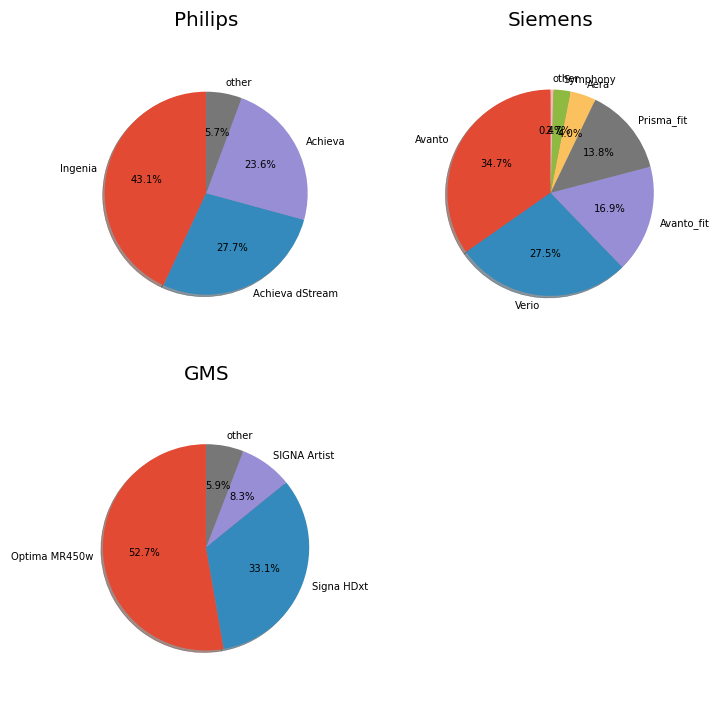
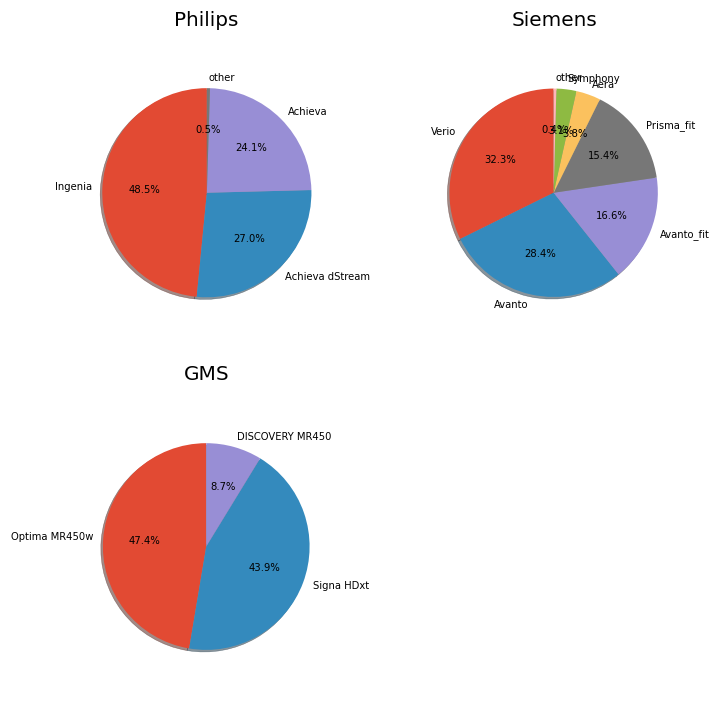
stats plots

diff --git a/Cobra/statistics_functions.py b/Cobra/statistics_functions.py
@@ -1,0 +1,324 @@
+#!/usr/bin/env python3
+# -*- coding: utf-8 -*-
+"""
+Created on Mon Sep 13 11:06:16 2021
+
+@author: neus
+"""
+
+import numpy as np
+import pandas as pd
+import itertools
+from stats_tools import vis as svis
+from vis import vis
+import matplotlib.pyplot as plt
+
+main_path = '/home/neus/Documents/09.UCPH/MasterThesis/github/Thesis/Cobra/'
+file_name = 'healthy_1'
+
+
+tab_dir = main_path+'tables/'
+fig_dir = main_path+'figs/basic_stats'
+
+# In[Define some helper functions]
+
+def p(x):
+    print(x)
+
+def only_first_true(a, b):
+    """takes two binary arrays
+    and returns True
+    where only the el. of the first array is true
+    if only the second or both are true returns false"""
+    return a&np.logical_not(a&b)
+
+def mask_sequence_type(df, str_, key='SeriesDescription'):
+    """Checks all the values in df
+    in the column key (SeriesDescription by default),
+    if they contain the string str_. Returns a mask."""
+    mask = df[key].str.contains(str_, na=False)
+    return mask
+
+def check_tags(df, tags, key='SeriesDescription'):
+    """calls mask_sequence type for a list of tags and combines
+    the masks with or"""
+    masks = []
+    for tag in tags:
+        masks.append(mask_sequence_type(df, tag, key))
+    mask = masks[0]
+    for i in range(1, len(masks)):
+        mask = mask | masks[i]
+    return mask
+
+def group_small(dict_, threshold, keyword='other'):
+    """Takes a dictionary and sums all values that are smaller than threshold
+    the result is stored under the key keyword. Useful for pie charts."""
+    newdic={}
+    for key, group in itertools.groupby(dict_, lambda k: keyword \
+                                        if (dict_[k]<threshold) else k):
+         newdic[key] = sum([dict_[k] for k in list(group)]) 
+    return newdic
+
+def get_property(prop,column_names,data):
+    '''
+    
+    Parameters
+    ----------
+    prop : str
+        DESCRIPTION.
+    column_names : np array
+        keys of the data.
+    data : np array
+        whole array of data.
+
+    Returns
+    -------
+    np array
+        np array for the given property.
+
+    '''
+    index = np.where(column_names==prop)[0]
+    return data[:,index]
+
+def read_table(file_name,encoding= 'unicode_escape'):
+    '''
+    Parameters
+    ----------
+    file_name : str
+        table file csv name.
+    encoding : str, optional
+        encoding . The default is 'unicode_escape'.
+
+    Returns
+    -------
+    array for column names, np array for data, sorted by acquisition time.
+
+    '''
+    df = pd.read_csv(file_name,encoding=encoding)
+    
+    
+    #In[Convert time and date to datetime for efficient access]
+    time_k = 'InstanceCreationTime'
+    date_k = 'InstanceCreationDate'
+    df['DateTime'] = df[date_k] + ' ' +  df[time_k]
+    #date_time_m = df['DateTime'].isnull()
+    df['DateTime'] = pd.to_datetime(df['DateTime'], format='%Y%m%d %H:%M:%S')
+
+    #In[Sort the the scans by time]
+    df_sorted = df.groupby('PatientID').apply(
+        lambda x: (x.sort_values(by=['DateTime'], ascending=True)))
+        
+    return df_sorted.keys(), df_sorted.to_numpy()
+
+def count_studies_per_patient(column_names,data):
+    df = pd.DataFrame(data=data,columns=column_names)
+    
+    df = pd.DataFrame(data=data,columns=column_names)
+    unique_studies = df.drop_duplicates(subset='StudyInstanceUID')
+    studies_per_patient = unique_studies.groupby('PatientID').size()
+        
+    return studies_per_patient
+
+def plot_n_studies(column_names,data,fig_dir=fig_dir,file_name=file_name,fig_name='num_studies'):
+    count_studies = count_studies_per_patient(column_names,data)
+    num_studies_a = count_studies.values
+    figure = svis.nice_histogram(num_studies_a, np.arange(-.5, max(num_studies_a)+.5),
+                        show_plot=True, xlabel='Number of studies',
+                        save=True, 
+                        figname=f"{fig_dir}/{file_name}/{fig_name}.png")
+    return figure
+    
+def plot_n_scans(column_names,data,fig_dir=fig_dir,file_name=file_name,fig_name='num_scans'):
+    df = pd.DataFrame(data=data,columns=column_names)
+    scans_per_patient = df.groupby('PatientID').size()
+    figure = svis.nice_histogram(
+    scans_per_patient, np.arange(1,110,2), 
+    show_plot=True, xlabel='# volums per patient',
+    save=True, figname = f"{fig_dir}/{file_name}/{fig_name}.png")
+    return figure 
+
+def sort_by_manufacturer(column_names,data):
+    df = pd.DataFrame(data=data,columns=column_names)
+    
+    manufactureres = df['Manufacturer'].unique()
+    p(manufactureres)
+    philips_t = ['Philips Healthcare', 'Philips Medical Systems',
+                 'Philips'] 
+    philips_c = check_tags(df, philips_t, 'Manufacturer').sum()
+    siemens_c = mask_sequence_type(df, 'SIEMENS', 'Manufacturer').sum()
+    gms_c = mask_sequence_type(df, 'GE MEDICAL SYSTEMS', 'Manufacturer').sum()
+    agfa_c = mask_sequence_type(df, 'Agfa', 'Manufacturer').sum()
+    none_c = df['Manufacturer'].isnull().sum()
+    
+    manufacturers_unq = ['Philips', 'SIEMENS', 'GEMS', 'Agfa', 'none']
+    counts = np.array([philips_c, siemens_c, gms_c, agfa_c, none_c])
+    
+    return manufacturers_unq,counts
+
+def plot_manufacturers(column_names,data,fig_dir=fig_dir,file_name=file_name,fig_name='manufacturers_count'):
+    manufacturers_unq,counts = sort_by_manufacturer(column_names,data)
+    figure = vis.bar_plot(manufacturers_unq, counts, xlabel='Manufacturer', 
+             save_plot=True, figname=f"{fig_dir}/{file_name}/{fig_name}.png")
+    
+    return figure
+
+def plot_models(column_names,data,fig_dir=fig_dir,file_name=file_name,fig_name='model_name_pie_chart'):
+    df = pd.DataFrame(data=data,columns=column_names)
+    
+    philips_t = ['Philips Healthcare', 'Philips Medical Systems',
+             'Philips'] 
+    
+    philips_m = check_tags(df, philips_t, 'Manufacturer')
+    siemens_m = mask_sequence_type(df, 'SIEMENS', 'Manufacturer')
+    gms_m = mask_sequence_type(df, 'GE MEDICAL SYSTEMS', 'Manufacturer')
+    
+    model_k = 'ManufacturerModelName'
+    philips_models_vc = df[philips_m][model_k].value_counts().to_dict()
+    siemens_models_vc = df[siemens_m][model_k].value_counts().to_dict()
+    gms_models_vc = df[gms_m][model_k].value_counts().to_dict()
+    
+    #In[summarize small groups]
+    philips_models_vc_new = group_small(philips_models_vc, 1000)
+    siemens_models_vc_new = group_small(siemens_models_vc, 200)
+    gms_models_vc_new = group_small(gms_models_vc, 200)
+    
+    #In[visualize]
+    fig, ax = plt.subplots(2,2, figsize=(10,10))
+    ax = ax.flatten()
+    
+    lbls_ph = philips_models_vc_new.keys()
+    szs_ph = philips_models_vc_new.values()
+    lbls_si = siemens_models_vc_new.keys()
+    szs_si = siemens_models_vc_new.values()
+    lbls_gm = gms_models_vc_new.keys()
+    szs_gm = gms_models_vc_new.values()
+    
+    ax[0].pie(szs_ph,  labels=lbls_ph, autopct='%1.1f%%',
+            shadow=True, startangle=90)
+    ax[0].axis('equal')  # Equal aspect ratio ensures that pie is drawn as a circle.
+    ax[0].set_title('Philips', fontsize=20)
+    ax[1].pie(szs_si,  labels=lbls_si, autopct='%1.1f%%',
+            shadow=True, startangle=90)
+    ax[1].axis('equal')  # Equal aspect ratio ensures that pie is drawn as a circle.
+    ax[1].set_title('Siemens', fontsize=20)
+    ax[2].pie(szs_gm,  labels=lbls_gm, autopct='%1.1f%%',
+            shadow=True, startangle=90)
+    ax[2].axis('equal')  # Equal aspect ratio ensures that pie is drawn as a circle.
+    ax[2].set_title('GMS', fontsize=20)
+    ax[-1].axis('off')
+    
+    fig.tight_layout()
+    plt.subplots_adjust(wspace=.5, hspace=None)
+    plt.show()
+    fig.savefig(f"{fig_dir}/{file_name}/{fig_name}.png")
+
+
+    return fig
+
+def group_by_seq(data,column_names):
+    
+    df = pd.DataFrame(data=data,columns=column_names)
+    #n[Sequence Types]
+    t1_t = ['T1', 't1']
+    mpr_t = ['mprage', 'MPRAGE']
+    tfe_t = ['tfe', 'TFE']
+    spgr_t = ['FSPGR']
+    smartbrain_t = ['SmartBrain']
+    
+    flair_t = ['FLAIR','flair']
+    
+    t2_t = ['T2', 't2']
+    fse_t = ['FSE', 'fse', '']
+    
+    t2s_t = ['T2\*', 't2\*']
+    gre_t  = ['GRE', 'gre']
+    
+    dti_t = ['DTI', 'dti']
+    
+    swi_t = ['SWI', 'swi']
+    dwi_t = ['DWI', 'dwi']
+    gd_t = ['dotarem', 'Dotarem', 'Gd','gd', 'GD', 'Gadolinium']
+    
+    angio_t = ['TOF', 'ToF', 'angio', 'Angio', 'ANGIO']
+    # Look up: MIP (maximum intensity projection), SmartBrain, 
+    # TOF (time of flight angriography), ADC?, STIR (Short Tau Inversion Recovery),
+    # angio, Dynamic Contrast-Enhanced Magnetic Resonance Imaging (DCE-MRI) 
+    #In[Get corresponding masks]
+    # take mprage to the t1
+    t1_m = check_tags(df, t1_t) | check_tags(df, mpr_t)
+    
+    mpr_m = check_tags(df, mpr_t)
+    t1mpr_m = t1_m & mpr_m
+    tfe_m = check_tags(df, tfe_t)
+    t1tfe_m = t1_m & tfe_m
+    spgr_m = check_tags(df, spgr_t)
+    t1spgr_m = t1_m & spgr_m
+    
+    flair_m = check_tags(df, flair_t)
+    
+    fse_m = check_tags(df, fse_t)
+    
+    t2s_m = check_tags(df, t2s_t)
+    gre_m  = check_tags(df, gre_t)
+    
+    dwi_m = check_tags(df, dwi_t)
+    gd_m = check_tags(df, gd_t)
+    
+    t2_flair_m = only_first_true(check_tags(df, t2_t), t2s_m)
+    t2_noflair_m = only_first_true(t2_flair_m, flair_m)# real t2
+    dti_m = check_tags(df, dti_t)
+    
+    swi_m = check_tags(df, swi_t) 
+    
+    angio_m = check_tags(df, angio_t)
+    smartbrain_m  = check_tags(df, smartbrain_t)
+    
+    none_m = df['SeriesDescription'].isnull()
+    # we are interested in t1, t2_noflair, flair, swi, dwi, dti
+    # combine all masks with an or and take complement
+    all_m = t1_m | flair_m | t2_noflair_m | t2s_m | dwi_m | dti_m | swi_m | angio_m | none_m 
+    other_m = ~all_m
+    
+    #In[Get counts]
+
+    t1mpr_c = t1mpr_m.sum()
+    t1tfe_c = t1tfe_m.sum()
+    t1spgr_c = t1spgr_m.sum()
+    
+    # counts we are interested in
+    flair_c = flair_m.sum()
+    t1_c = t1_m.sum()
+    t2_c = t2_flair_m.sum()
+    t2noflair_c = t2_noflair_m.sum()
+    t2s_c = t2s_m.sum()
+    dti_c = dti_m.sum()
+    swi_c = swi_m.sum()
+    dwi_c = dwi_m.sum()
+    angio_c = angio_m.sum()
+    
+    none_c = none_m.sum()
+    other_c = other_m.sum()
+    
+    sequences_basic = ['T1+MPR', 'T2', 'FLAIR', 'T2*', 'DTI', 'SWI', 'DWI', 'angio',
+                   'Other',
+                   'None']
+    seq_counts = np.array([t1_c, t2noflair_c, flair_c, t2s_c, 
+                       dti_c, swi_c, dwi_c, angio_c, other_c, none_c])
+
+    return sequences_basic,seq_counts
+
+def plot_seq(column_names,data,fig_dir=fig_dir,file_name=file_name,fig_name='basic_sequences_count'):
+    sequences_basic, seq_counts = group_by_seq(data,column_names)
+    figure = vis.bar_plot(sequences_basic, seq_counts, figsize=(13,6), xlabel='Sequence',
+             xtickparams_ls=18, save_plot=True, 
+             figname=f"{fig_dir}/{file_name}/{fig_name}.png")
+    
+    return figure
+
+
+
+
+
+# In[Read table]
+#column_names,data = read_table(tab_dir+file_name+'.csv')
+

diff --git a/Cobra/stats_generate_plots.py b/Cobra/stats_generate_plots.py
@@ -1,0 +1,44 @@
+#!/usr/bin/env python3
+# -*- coding: utf-8 -*-
+"""
+Created on Tue Sep 14 11:09:32 2021
+
+@author: neus
+"""
+
+from statistics_functions import * 
+
+# In[Plot single month]
+main_path = '/home/neus/Documents/09.UCPH/MasterThesis/github/Thesis/Cobra/'
+file_name = 'healthy_8'
+
+tab_dir = main_path+'tables/'
+fig_dir = main_path+'/figs/basic_stats'
+
+#Read table
+column_names,data = read_table(tab_dir+file_name+'.csv')
+
+#Plots
+plot_n_studies(column_names,data,fig_dir=fig_dir,file_name=file_name)
+plot_n_scans(column_names,data,fig_dir=fig_dir,file_name=file_name)
+plot_manufacturers(column_names,data,fig_dir=fig_dir,file_name=file_name)
+plot_models(column_names,data,fig_dir=fig_dir,file_name=file_name)
+plot_seq(column_names,data,fig_dir=fig_dir,file_name=file_name)
+
+# In[Plot all 2019]
+column_names,data = read_table(f'{tab_dir}healthy_1.csv')    
+for i in range(2,9):
+    column_names,current_data = read_table(f'{tab_dir}healthy_{i}.csv')    
+    data = np.vstack((data,current_data))
+    
+#Plots
+file_name = '2019_all'
+tab_dir = main_path+'tables/'
+fig_dir = main_path+'/figs/basic_stats'
+main_path = '/home/neus/Documents/09.UCPH/MasterThesis/github/Thesis/Cobra/'
+
+plot_n_studies(column_names,data,fig_dir=fig_dir,file_name=file_name)
+plot_n_scans(column_names,data,fig_dir=fig_dir,file_name=file_name)
+plot_manufacturers(column_names,data,fig_dir=fig_dir,file_name=file_name)
+plot_models(column_names,data,fig_dir=fig_dir,file_name=file_name)
+plot_seq(column_names,data,fig_dir=fig_dir,file_name=file_name)
